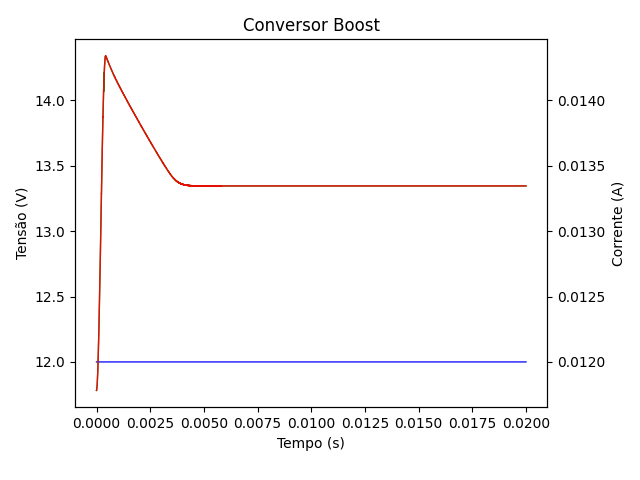
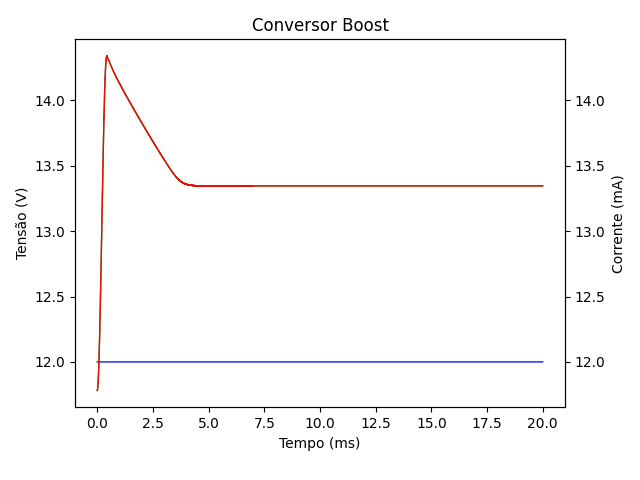
Move configuration to .json file

diff --git a/plotter.py b/plotter.py
@@ -7,44 +7,42 @@ class Plotter:
     def plot(data, options):
         fig, ax1 = plt.subplots()
         plots = []
-        ax1.set_xlabel(options['x_label'])
-        ax1.set_ylabel(options['y_label'])
+        ax1.set_xlabel(options['x_axis']['label'])
+        ax1.set_ylabel(options['y_axis']['left']['label'])
 
-        scaler = lambda m: m * options['x_transform']
+        scaler = lambda m: m * options['x_axis']['transform']
         np_scaler = np.vectorize(scaler)
         data['time'] = np_scaler(data['time'])
 
-        for trace in options['traces'].keys():
-            if options['traces'][trace]['scale'] == 'n':
-                scaler = lambda m: m * options['y_transform']
+        for trace in options['traces']['left'].keys():
+            scaler = lambda m: m * options['y_axis']['left']['transform']
+            np_scaler = np.vectorize(scaler)
+            data[trace] = np_scaler(data[trace])
+
+            plots.append(ax1.plot(data['time'],
+                                  data[trace],
+                                  marker=options['traces']['left'][trace]['marker'],
+                                  color=options['traces']['left'][trace]['color'],
+                                  linewidth=1,
+                                  alpha=0.9,
+                                  label=options['traces']['left'][trace]['label']))
+        ax1.tick_params(axis='y')
+
+        if options['two_scales']:
+            ax2 = ax1.twinx()  # instantiate a second axes that shares the same x-axis
+            ax2.set_ylabel(options['y_axis']['right']['label'])  # we already handled the x-label with ax1
+            for trace in options['traces']['right'].keys():
+                scaler = lambda m: m * options['y_axis']['right']['transform']
                 np_scaler = np.vectorize(scaler)
                 data[trace] = np_scaler(data[trace])
 
-                plots.append(ax1.plot(data['time'],
+                plots.append(ax2.plot(data['time'],
                                       data[trace],
-                                      marker=options['traces'][trace]['marker'],
-                                      color=options['traces'][trace]['color'],
+                                      marker=options['traces']['right'][trace]['marker'],
+                                      color=options['traces']['right'][trace]['color'],
                                       linewidth=1,
                                       alpha=0.9,
-                                      label=options['traces'][trace]['label']))
-        ax1.tick_params(axis='y')
-
-        if options['scales'] == 'y':
-            ax2 = ax1.twinx()  # instantiate a second axes that shares the same x-axis
-            ax2.set_ylabel(options['right_y_label'])  # we already handled the x-label with ax1
-            for trace in options['traces'].keys():
-                if options['traces'][trace]['scale'] == 'y':
-                    scaler = lambda m: m * options['right_y_transform']
-                    np_scaler = np.vectorize(scaler)
-                    data[trace] = np_scaler(data[trace])
-
-                    plots.append(ax2.plot(data['time'],
-                                          data[trace],
-                                          marker=options['traces'][trace]['marker'],
-                                          color=options['traces'][trace]['color'],
-                                          linewidth=1,
-                                          alpha=0.9,
-                                          label=options['traces'][trace]['label']))
+                                      label=options['traces']['right'][trace]['label']))
             ax2.tick_params(axis='y')
 
             fig.tight_layout(rect=[0, 0.03, 1, 0.95])  # otherwise the right y-label is slightly clipped

diff --git a/main.py b/main.py
@@ -1,72 +1,23 @@
 import os
-import argparse
+import json
 
 from parser import Parser
 from plotter import Plotter
 
-# Create the parser
-arg_parser = argparse.ArgumentParser(description='Plot charts from SPICE text results')
-
-# Add the arguments
-arg_parser.add_argument('path',
-                        metavar='path',
-                        type=str,
-                        help='the path to SPICE text results')
-
-arg_parser.add_argument('output',
-                        metavar='output',
-                        default='output.png',
-                        type=str,
-                        help='the path to output file')
-
-arg_parser.add_argument('title',
-                        metavar='title',
-                        type=str,
-                        help='chart title')
-
-# Execute the parse_args() method
-args = arg_parser.parse_args()
-
-input_file = args.path
-
-if not os.path.exists(input_file):
-    print("Input file %s does NOT exist" % input_file)
+try:
+    with open('settings.json', 'r') as settings_file:
+        options = json.load(settings_file)
+        print(options)
+except FileNotFoundError:
+    print('Missing configuration file: settings.json. Nothing to do...')
     exit(-1)
 
-file_stream = open(input_file, 'r', encoding='utf8')
+if not os.path.exists(options['input']):
+    print("Input file %s does NOT exist" % options['input'])
+    exit(-1)
+
+file_stream = open(options['input'], 'r', encoding='utf8')
 
 data = Parser.parse(file_stream)
-
-options = {
-    'output': 'docs/boost.png',
-    'title': 'Conversor Boost',
-    'x_label': 'Tempo (s)',
-    'x_transform': 0.001,
-    'y_label': 'Tensão (V)',
-    'y_transform': 1,
-    'scales': 'y',
-    'right_y_label': 'Corrente (mA)',
-    'right_y_transform': 1000,
-    'traces': {
-        'V(vin)': {
-            'scale': 'n',
-            'label': 'Vin',
-            'color': 'blue',
-            'marker': ''
-        },
-        'V(vout)': {
-            'scale': 'n',
-            'label': 'Vout',
-            'color': 'green',
-            'marker': ''
-        },
-        'I(R1)': {
-            'scale': 'y',
-            'label': 'I(R1)',
-            'color': 'red',
-            'marker': ''
-        }
-    }
-}
 
 Plotter.plot(data, options)
